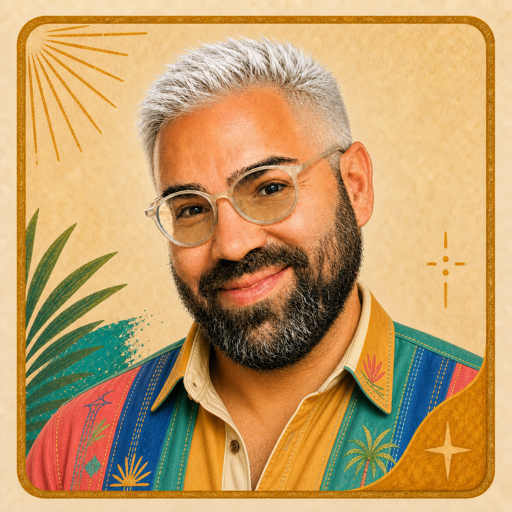
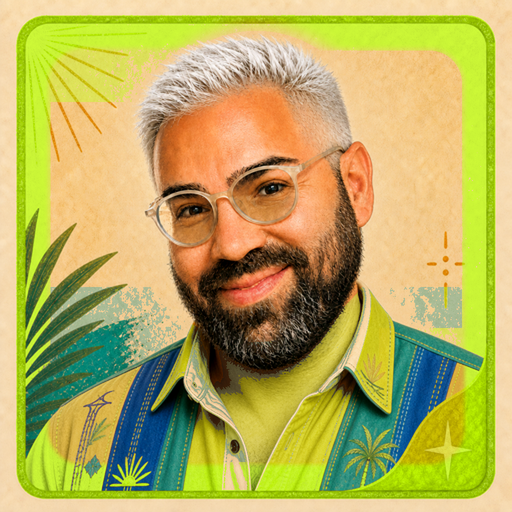
Restyle the hero portrait to lime frame and ink/lime shirt.
Keep Javier’s existing face. Cream paper stays. Frame and shirt shift to #b6f400 / ink. Favicons are a tight face crop of the same image, with no $ on the face.

diff --git a/index.html b/index.html
@@ -798,7 +798,7 @@
       animation: ringSpin 8s linear infinite;
       z-index: 1;
       pointer-events: none;
-      opacity: 0.9;
+      opacity: 0.28;
     }
     @keyframes ringSpin {
       to { --ring-angle: 360deg; }
@@ -852,7 +852,7 @@
       height: 100%;
       object-fit: contain;
       object-position: center;
-      background: #ffffff;
+      background: #f6e6c8;
       transition: transform 0.6s var(--ease-out);
     }
     .portrait-stage:hover .portrait-frame img {
